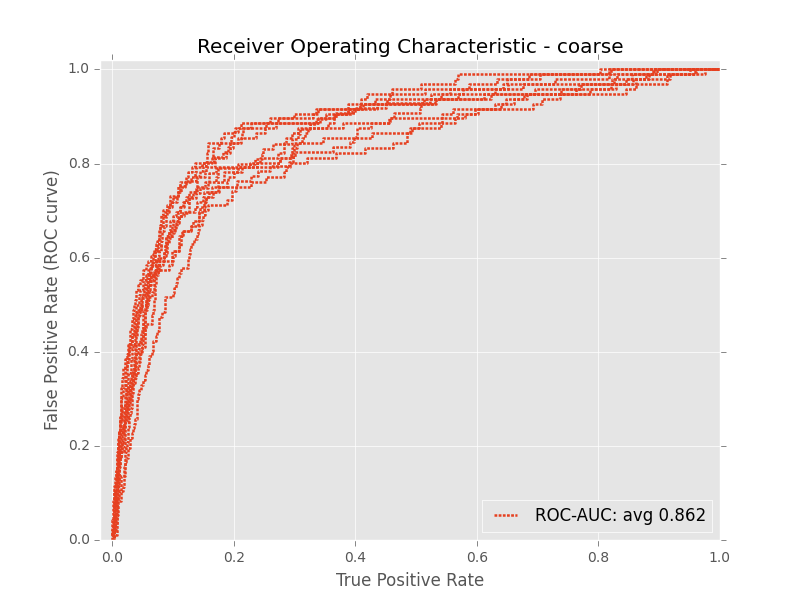
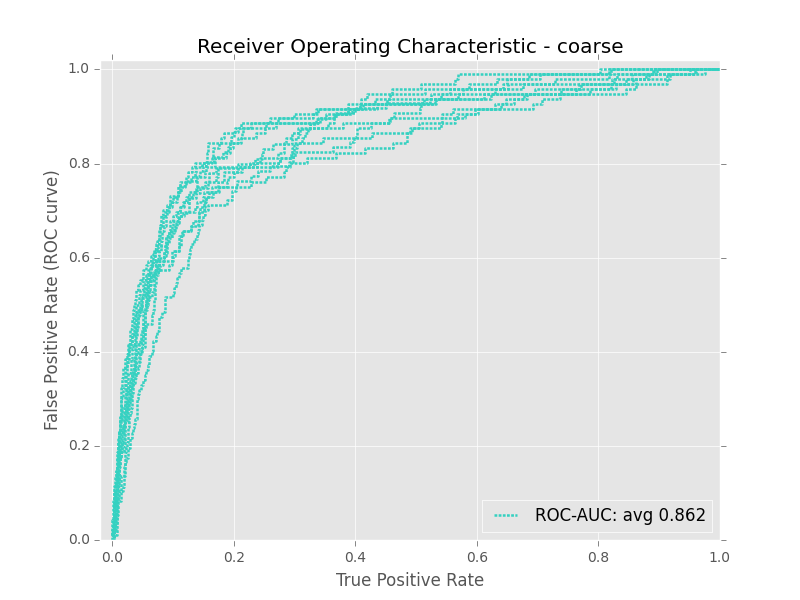
add all thresh plots for runActPassLogReg

Changed region(s): [[0.125, 0.09, 0.9062, 0.9]]

diff --git a/ActivePassiveLearnParams/plotPsvThreshRnd.py b/ActivePassiveLearnParams/plotPsvThreshRnd.py
@@ -14,7 +14,23 @@ os.chdir('runActPassLogReg')
 
 clftype = 'LogReg' #LogReg, SVM
 #rndNums = [20,30,40,50,60]
-rndNums = [20]
+#rndNums = [70,60,50,40,30,20,10]
+rndNums = [60,50,40,30,20,10]
+
+
+cVals = [#(0.90000000000000002, 0.25162433333706963, 0.12708553664078234, 1.0),
+         (0.90000000000000002, 0.48317993787976221, 0.25162433333706957, 1.0),
+         (0.86294117647058821, 0.67619870060118625, 0.3711206857265133, 1.0),
+         ##(0.69352941176470584, 0.81992038432147962, 0.48784802082520451, 1.0),
+         (0.53117647058823525, 0.89098219195263628, 0.58975546501210829, 1.0),
+         ##(0.36882352941176472, 0.89098219195263628, 0.67984446124709452, 1.0),
+         (0.2064705882352941, 0.8199203843214794, 0.75630966447410342, 1.0),
+         ##(0.037058823529411734, 0.67619870060118592, 0.81992038432147951, 1.0),
+         (0.12529411764705883, 0.48317993787976199, 0.86410948083716543, 1.0),
+         ##(0.28764705882352942, 0.25162433333706941, 0.89098219195263628, 1.0),
+         (0.45000000000000001, 0.0, 0.90000000000000002, 1.0)
+         ]
+
 
 
 #type = 'active_fine'
@@ -22,7 +38,9 @@ rndTypes = ['active_fine','active_coarse']
 #rndTypes = ['active_coarse']
 logLoc = 'thresh_100_'
 
+rndCnt = -1
 for rndNum in rndNums:
+    rndCnt += 1
     for type in rndTypes:
         resultsDir = 'results'
         rndTypeFoldMat = dict()
@@ -111,21 +129,6 @@ for rndNum in rndNums:
                      (1, 8), (2, 8), (3, 8),
                      (1, 8), (2, 8)]
 
-        cVals = [(0.90000000000000002, 0.25162433333706963, 0.12708553664078234, 1.0),
-        # (0.90000000000000002, 0.48317993787976221, 0.25162433333706957, 1.0),
-        # (0.86294117647058821, 0.67619870060118625, 0.3711206857265133, 1.0),
-        # (0.69352941176470584, 0.81992038432147962, 0.48784802082520451, 1.0),
-        # (0.53117647058823525, 0.89098219195263628, 0.58975546501210829, 1.0),
-        # (0.36882352941176472, 0.89098219195263628, 0.67984446124709452, 1.0),
-        # (0.2064705882352941, 0.8199203843214794, 0.75630966447410342, 1.0),
-        (0.037058823529411734, 0.67619870060118592, 0.81992038432147951, 1.0),
-        # (0.12529411764705883, 0.48317993787976199, 0.86410948083716543, 1.0),
-        # (0.28764705882352942, 0.25162433333706941, 0.89098219195263628, 1.0),
-        (0.45000000000000001, 0.0, 0.90000000000000002, 1.0)
-         ]
-
-
-
 
 
 
@@ -208,14 +211,14 @@ for rndNum in rndNums:
                     plt.plot(resultMat[0][:],resultMat[1][:],
                              label = 'ROC-AUC: {}'.format(auc),
                              linewidth = 1.8 ,
-                             fillstyle='none',color=cVals[0],dashes=lineSty[2])
+                             fillstyle='none',color=cVals[rndCnt],dashes=lineSty[2])
                     # plt.plot(resultMat[0][:],resultMat[2][:],
                     #          label = 'Accuracy: {}'.format(val),
                     #          linewidth = 1.8 ,
                     #          fillstyle='none',color=cVals[1],dashes=lineSty[2])
                 else:
                     plt.plot(resultMat[0][:],resultMat[1][:],linewidth = 1.8 ,
-                             fillstyle='none',color=cVals[0],dashes=lineSty[2])
+                             fillstyle='none',color=cVals[rndCnt],dashes=lineSty[2])
                     # plt.plot(resultMat[0][:],resultMat[2][:],linewidth = 1.8 ,
                     #          fillstyle='none',color=cVals[1],dashes=lineSty[2])
 
@@ -319,14 +322,14 @@ for rndNum in rndNums:
                     plt.plot(resultMat[0][:],resultMat[1][:],
                              label='PR-AUC: {}'.format(auc),
                              linewidth = 1.8 ,
-                             fillstyle='none',color=cVals[0],dashes=lineSty[2])
+                             fillstyle='none',color=cVals[rndCnt],dashes=lineSty[2])
                     # plt.plot(resultMat[0][:],resultMat[2][:],
                     #          label = 'F-measure: {}'.format(val),
                     #          linewidth = 1.8 ,
                     #          fillstyle='none',color=cVals[1],dashes=lineSty[2])
                 else:
                     plt.plot(resultMat[0][:],resultMat[1][:],linewidth = 1.8 ,
-                             fillstyle='none',color=cVals[0],dashes=lineSty[2])
+                             fillstyle='none',color=cVals[rndCnt],dashes=lineSty[2])
                     # plt.plot(resultMat[0][:],resultMat[2][:],linewidth = 1.8 ,
                     #          fillstyle='none',color=cVals[1],dashes=lineSty[2])
 
